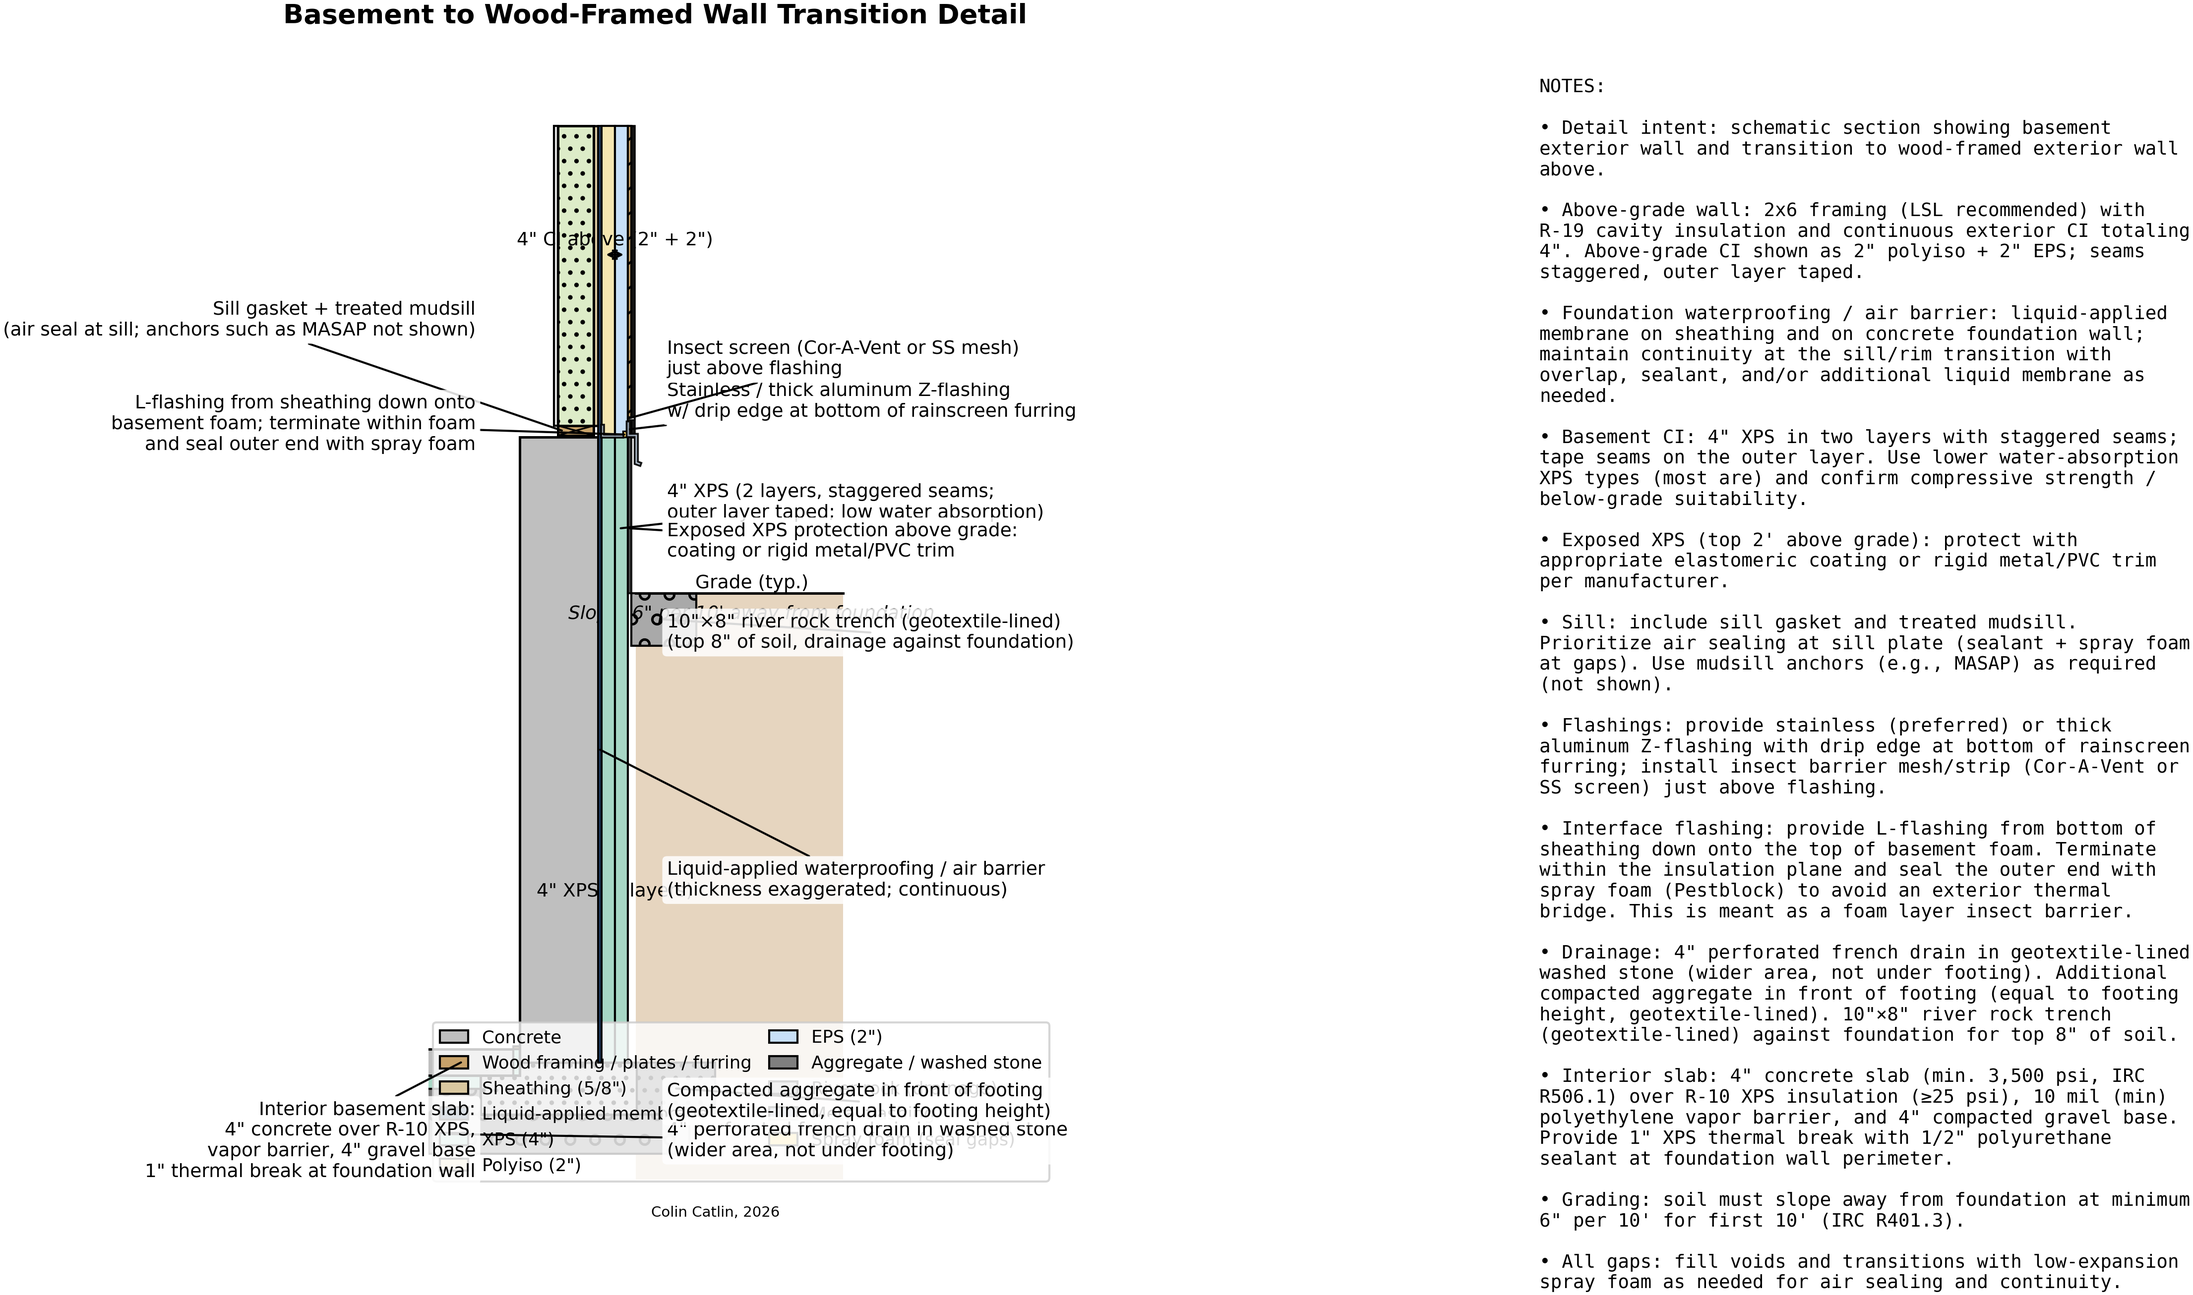
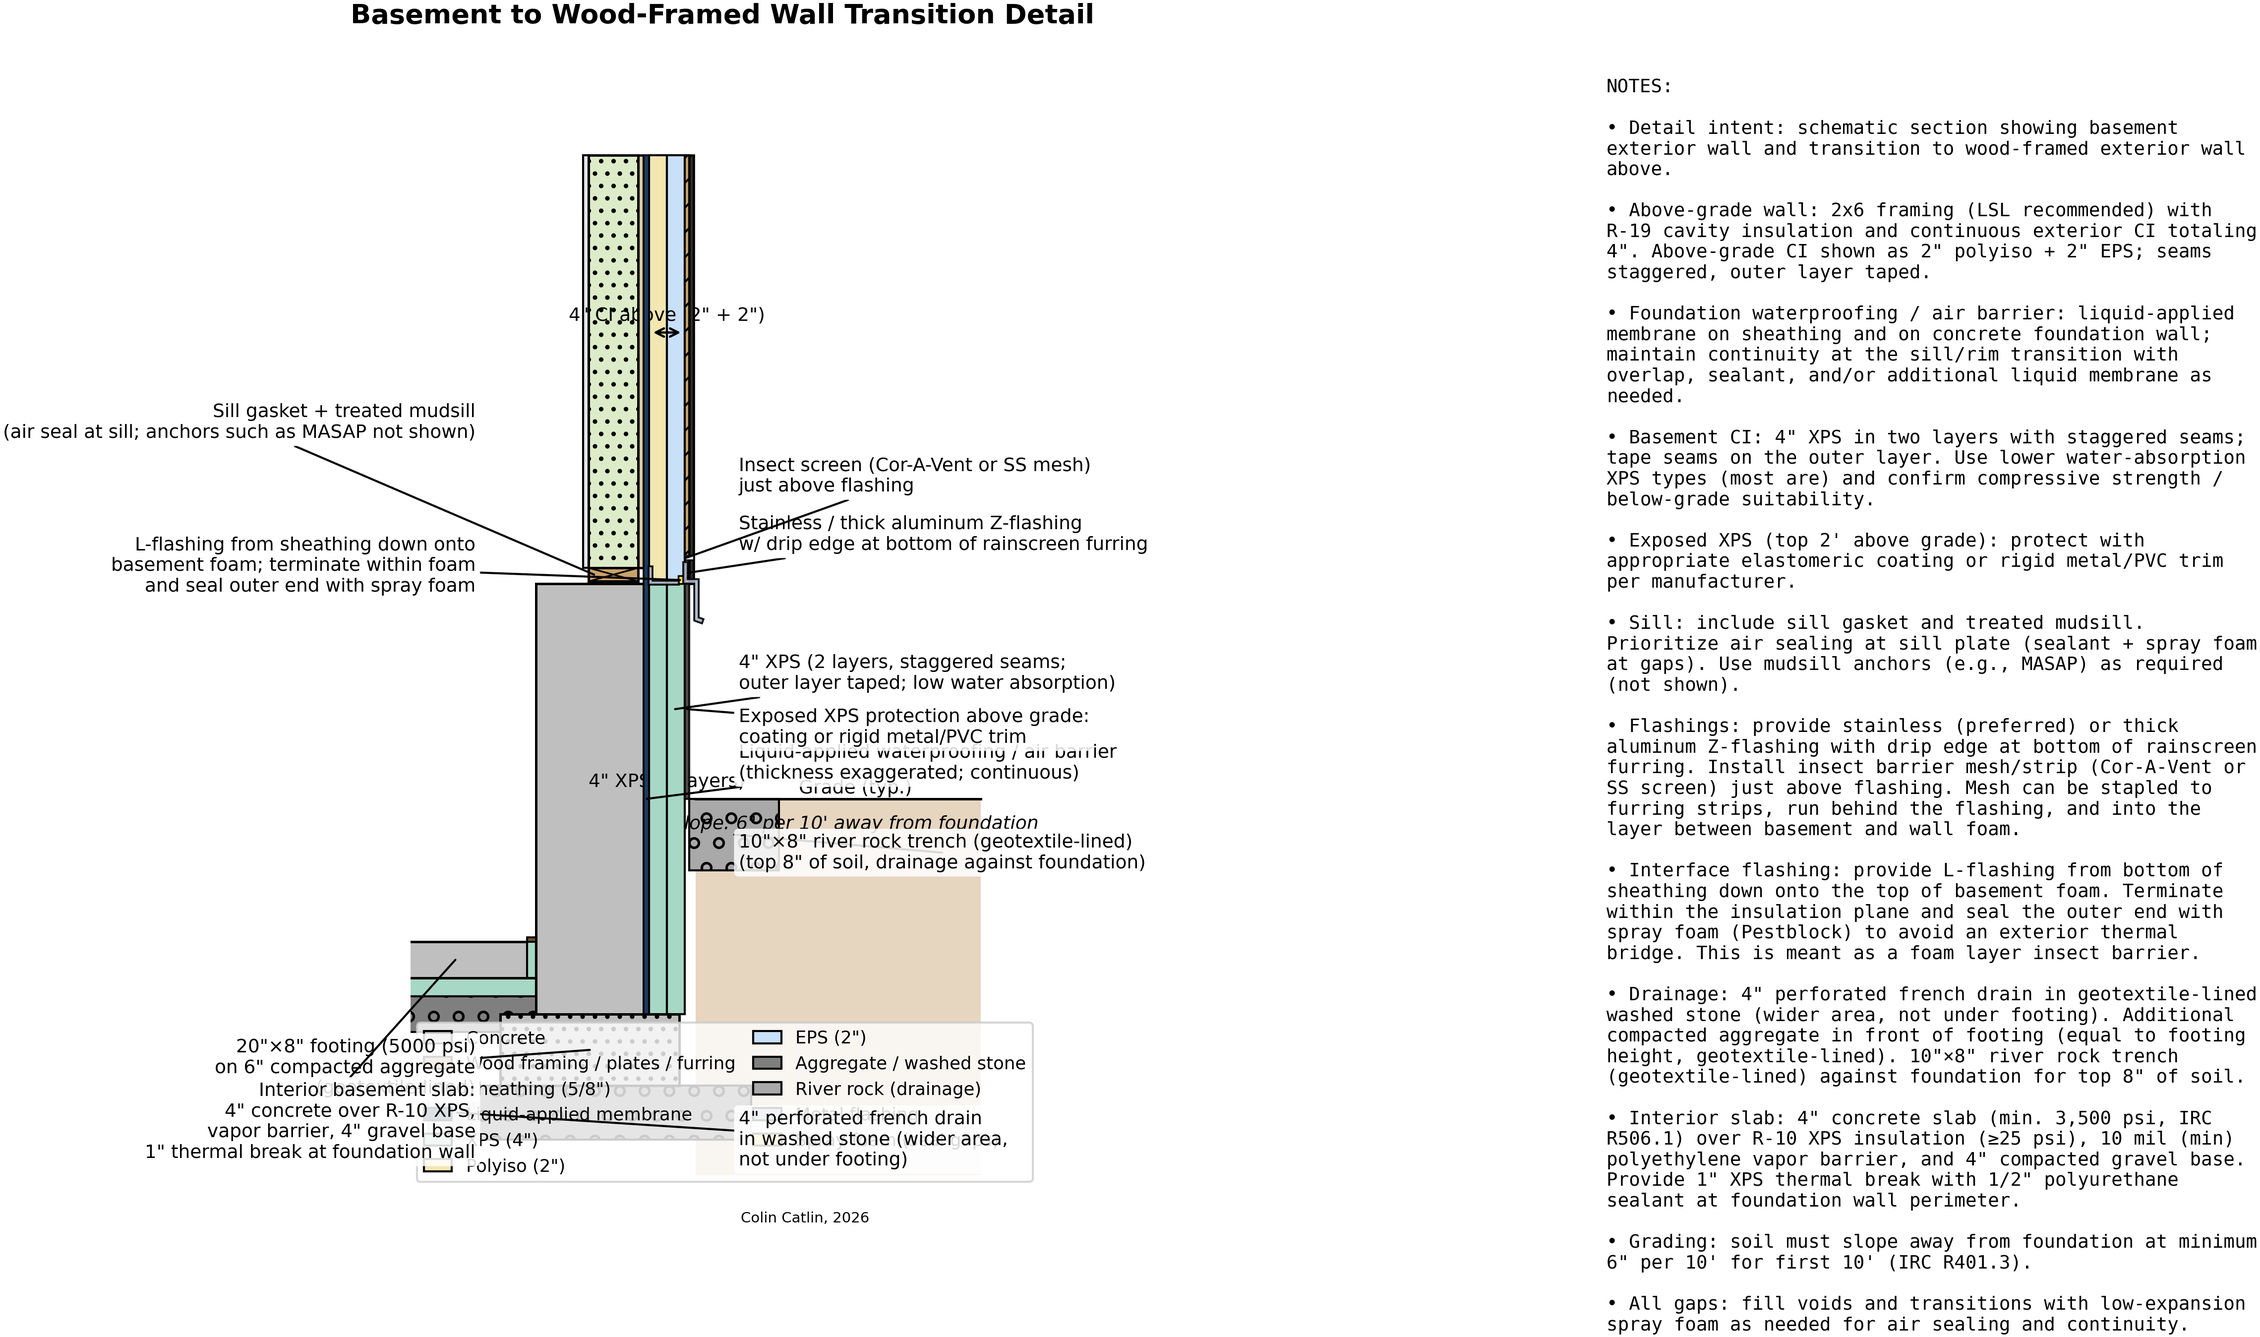
add basement slab to detail

diff --git a/basement_to_framed_wall_detail.py b/basement_to_framed_wall_detail.py
@@ -35,9 +35,9 @@ def main():
     ax_notes = fig.add_subplot(gs[0, 1])
 
     # Units: inches (schematic)
-    grade_y = 0.0
+    grade_y = 12.0  # raised 1' to reduce figure height
     basement_above_grade = 24.0  # top 2' shown above grade
-    basement_wall_height = 96.0  # 8' shown
+    basement_wall_height = 48.0  # 4' shown
 
     y_conc_top = grade_y + basement_above_grade
     y_conc_bot = y_conc_top - basement_wall_height
@@ -139,57 +139,32 @@ def main():
     ax.text(x_clad1 + 18.0, grade_y - 1.8, "Slope: 6\" per 10' away from foundation", fontsize=9, ha="center", va="top", style="italic")
 
     # -----------------------
-    # Foundation + footing (schematic)
+    # Interior slab assembly (basement floor)
     # -----------------------
-    footing_w = 24.0
+    # Slab at basement floor level, extending into basement (negative X direction)
+    basement_floor_y = y_conc_bot + 2.0
+    slab_x0 = x_conc_int - slab_width
+    slab_x1 = x_conc_int
+    
+    # Calculate footing position first (needs to connect to bottom of concrete wall)
+    footing_w = 20.0
     footing_d = 8.0
-    stone_base = 6.0
-    drain_diam = 4.0
-    stone_base_extra = 8.0  # additional width for french drain area
-
-    y_foot_top = y_conc_bot
-    y_foot_bot = y_foot_top - footing_d
-    y_stone_bot = y_foot_bot - stone_base
-
+    stone_base_thk = 6.0
+    
+    # Footing starts at bottom of concrete wall
+    y_foot0 = y_conc_bot
+    y_foot1 = y_foot0 - footing_d
+    y_stone0 = y_foot1
+    y_stone1 = y_stone0 - stone_base_thk
+    
+    # Center footing under the concrete wall
     x_foot0 = (x_conc_int + x_conc_ext) / 2 - footing_w / 2
     x_foot1 = x_foot0 + footing_w
     
-    # Extended aggregate base (wider on exterior side for french drain)
-    x_stone0 = x_foot0 - stone_base_extra
-    x_stone1 = x_foot1 + stone_base_extra
-
-    _rect(ax, x_conc_int, y_conc_bot, conc_wall_thk, y_conc_top - y_conc_bot, fc=COL_CONC, lw=1.2, z=2)
-    _rect(ax, x_foot0, y_foot_bot, footing_w, footing_d, fc=COL_CONC, lw=1.2, hatch=HATCHES.compacted, z=2)
-    _rect(ax, x_stone0, y_stone_bot, x_stone1 - x_stone0, stone_base, fc=COL.aggregate, lw=1.0, hatch=HATCHES.gravel, z=1)
+    # Calculate slab position relative to footing (slab XPS bottom is 2" above footing top, matching sauna)
+    slab_xps_bot = y_foot0 + 2.0
+    basement_floor_y = slab_xps_bot + xps_under_thk + poly_sheet_thk + slab_thk
     
-    # Additional aggregate in front of footing (exterior side, equal to footing height)
-    aggregate_front_height = footing_d  # equal to footing height
-    aggregate_front_width = stone_base_extra + 4.0
-    _rect(
-        ax,
-        x_foot1,
-        y_foot_bot,
-        aggregate_front_width,
-        aggregate_front_height,
-        fc=COL.aggregate,
-        ec="black",
-        lw=1.0,
-        hatch=HATCHES.compacted,
-        z=2,
-    )
-    
-    # French drain (in wider stone area, not under footing)
-    drain_x = x_stone0 + drain_diam * 0.8
-    drain_y = y_stone_bot + stone_base / 2
-    _french_drain(ax, drain_x, drain_y, drain_diam, fc=COL_METAL, z=3)
-
-    # -----------------------
-    # Interior slab assembly (basement floor)
-    # -----------------------
-    # Slab at basement floor level (just above footing), extending into basement (negative X direction)
-    basement_floor_y = y_conc_bot + 2.0  # slightly above footing
-    slab_x0 = x_conc_int - slab_width
-    slab_x1 = x_conc_int
     slab_layers = _slab_assembly(
         ax,
         slab_x0,
@@ -197,7 +172,7 @@ def main():
         basement_floor_y,
         slab_thk=slab_thk,
         xps_thk=xps_under_thk,
-        poly_thk=poly_sheet_thk,
+        vapor_thk=poly_sheet_thk,
         stone_thk=stone_under_slab,
         thermal_break_thk=thermal_break_thk,
         sealant_thk=sealant_thk,
@@ -205,6 +180,22 @@ def main():
         thermal_break_x=x_conc_int - thermal_break_thk,
         show_stone=True,
     )
+    
+    # Single consistent aggregate base (wider than footing for french drain)
+    stone_base_extra = 8.0
+    drain_diam = 4.0
+    x_stone0 = x_foot0 - stone_base_extra
+    x_stone1 = x_foot1 + stone_base_extra
+
+    _rect(ax, x_conc_int, y_conc_bot, conc_wall_thk, y_conc_top - y_conc_bot, fc=COL_CONC, lw=1.2, z=2)
+    _rect(ax, x_foot0, y_foot1, footing_w, footing_d, fc=COL_CONC, lw=1.2, hatch=HATCHES.compacted, z=2)
+    _rect(ax, x_stone0, y_stone1, x_stone1 - x_stone0, stone_base_thk, fc=COL.aggregate, lw=1.0, hatch=HATCHES.gravel, z=1)
+    
+    # French drain (in wider stone area, not under footing)
+    drain_x = x_stone0 + drain_diam * 0.8
+    drain_y = y_stone1 + stone_base_thk / 2
+    _french_drain(ax, drain_x, drain_y, drain_diam, fc=COL_METAL, z=3)
+    _french_drain(ax, drain_x, drain_y, drain_diam, fc=COL_METAL, z=3)
 
     # -----------------------
     # Air/water barrier continuity (liquid membrane) + insulation
@@ -329,16 +320,17 @@ def main():
     _leader(
         ax,
         xy=(drain_x, drain_y),
-        text_xy=(x_clad1 + 5.0, y_foot_bot - 4.0),
-        text='4" perforated french drain in washed stone\n(wider area, not under footing)',
+        text_xy=(x_clad1 + 5.0, y_foot1 - 6.0),
+        text='4" perforated french drain\nin washed stone (wider area,\nnot under footing)',
         ha="left",
     )
     _leader(
         ax,
-        xy=(x_foot1 + aggregate_front_width / 2, y_foot_bot + aggregate_front_height / 2),
-        text_xy=(x_clad1 + 5.0, y_foot_bot + 2.0),
-        text='Compacted aggregate in front of footing\n(geotextile-lined, equal to footing height)',
-        ha="left",
+        xy=((x_foot0 + x_foot1) / 2, (y_foot0 + y_foot1) / 2),
+        text_xy=(x_dry0 - 12.0, y_foot1 + 2.0),
+        text='20"×8" footing (5000 psi)\non 6" compacted aggregate\n(geotextile-lined)',
+        ha="right",
+        va="center",
     )
     _leader(
         ax,
@@ -378,10 +370,10 @@ def main():
     )
 
     ax.set_title("Basement to Wood-Framed Wall Transition Detail", fontsize=13, fontweight="bold", loc="center", pad=12)
-    ax.text(x_conc_int + 30.0, y_stone_bot - 8.0, "Colin Catlin, 2026", ha="center", va="top", fontsize=7)
+    ax.text(x_conc_int + 30.0, y_stone1 - 8.0, "Colin Catlin, 2026", ha="center", va="top", fontsize=7)
 
     ax.set_xlim(x_conc_int - 14.0, x_clad1 + 38.0)
-    ax.set_ylim(y_stone_bot - 6.0, y_wall_top + 12.0)
+    ax.set_ylim(y_stone1 - 6.0, y_wall_top + 12.0)
     ax.set_aspect("equal")
     ax.axis("off")
 
@@ -433,7 +425,7 @@ def main():
         "",
         "• Sill: include sill gasket and treated mudsill. Prioritize air sealing at sill plate (sealant + spray foam at gaps). Use mudsill anchors (e.g., MASAP) as required (not shown).",
         "",
-        "• Flashings: provide stainless (preferred) or thick aluminum Z-flashing with drip edge at bottom of rainscreen furring; install insect barrier mesh/strip (Cor-A-Vent or SS screen) just above flashing.",
+        "• Flashings: provide stainless (preferred) or thick aluminum Z-flashing with drip edge at bottom of rainscreen furring. Install insect barrier mesh/strip (Cor-A-Vent or SS screen) just above flashing. Mesh can be stapled to furring strips, run behind the flashing, and into the layer between basement and wall foam.",
         "",
         "• Interface flashing: provide L-flashing from bottom of sheathing down onto the top of basement foam. Terminate within the insulation plane and seal the outer end with spray foam (Pestblock) to avoid an exterior thermal bridge. This is meant as a foam layer insect barrier.",
         "",

diff --git a/detail_utils.py b/detail_utils.py
@@ -333,7 +333,7 @@ def _french_drain(ax, x, y, diameter, *, fc=COLORS.metal, ec="black", lw=1.1, z=
     ax.add_patch(Circle((x, y), radius=diameter / 2 - 0.25, facecolor=fc, edgecolor="none", alpha=fill_alpha, zorder=z + 1))
 
 
-def _slab_assembly(ax, x0, x1, y_top, *, slab_thk=4.0, xps_thk=2.0, poly_thk=0.05, stone_thk=4.0, 
+def _slab_assembly(ax, x0, x1, y_top, *, slab_thk=4.0, xps_thk=2.0, vapor_thk=0.05, stone_thk=4.0, 
                    thermal_break_thk=1.0, sealant_thk=0.5, thermal_break_side='left',
                    thermal_break_x=None, show_stone=True):
     """
@@ -351,8 +351,8 @@ def _slab_assembly(ax, x0, x1, y_top, *, slab_thk=4.0, xps_thk=2.0, poly_thk=0.0
         Thickness of concrete slab (default 4.0")
     xps_thk : float
         Thickness of XPS insulation under slab (default 2.0")
-    poly_thk : float
-        Thickness of poly vapor barrier (schematic, default 0.05")
+    vapor_thk : float
+        Thickness of vapor barrier (schematic, default 0.05")
     stone_thk : float
         Thickness of gravel base (default 4.0")
     thermal_break_thk : float
@@ -368,13 +368,13 @@ def _slab_assembly(ax, x0, x1, y_top, *, slab_thk=4.0, xps_thk=2.0, poly_thk=0.0
     
     Returns:
     --------
-    dict with layer y-coordinates: 'slab_bot', 'poly_bot', 'xps_bot', 'stone_bot'
+    dict with layer y-coordinates: 'slab_bot', 'vapor_bot', 'xps_bot', 'stone_bot'
     """
     COL = COLORS
     
     y_slab_bot = y_top - slab_thk
-    y_poly_bot = y_slab_bot - poly_thk
-    y_xps_bot = y_poly_bot - xps_thk
+    y_vapor_bot = y_slab_bot - vapor_thk
+    y_xps_bot = y_vapor_bot - xps_thk
     y_stone_bot = y_xps_bot - stone_thk
     
     # Draw thermal break(s) if specified
@@ -397,7 +397,7 @@ def _slab_assembly(ax, x0, x1, y_top, *, slab_thk=4.0, xps_thk=2.0, poly_thk=0.0
     
     # Draw slab layers
     _rect(ax, x0, y_slab_bot, x1 - x0, slab_thk, fc=COL.concrete, lw=1.2, z=2)
-    _rect(ax, x0, y_poly_bot, x1 - x0, poly_thk, fc=COL.membrane, ec="black", lw=0.6, z=1)
+    _rect(ax, x0, y_vapor_bot, x1 - x0, vapor_thk, fc=COL.membrane, ec="black", lw=0.6, z=1)
     _rect(ax, x0, y_xps_bot, x1 - x0, xps_thk, fc=COL.xps, lw=1.0, z=1)
     
     if show_stone:
@@ -405,7 +405,7 @@ def _slab_assembly(ax, x0, x1, y_top, *, slab_thk=4.0, xps_thk=2.0, poly_thk=0.0
     
     return {
         'slab_bot': y_slab_bot,
-        'poly_bot': y_poly_bot,
+        'vapor_bot': y_vapor_bot,
         'xps_bot': y_xps_bot,
         'stone_bot': y_stone_bot
     }

diff --git a/house_description.md b/house_description.md
@@ -1,0 +1,47 @@
+# Project Design Goals and Guidelines
+* Design  around IFC files and interact with them mostly from python in Visual Studio Code. IFC should be used so that this could be loaded into other major programs easily, such as Revit or ArchCAD.
+* Use ifcopenshell to process the IFC files, ifctester to help validate the structure, and Bonsai BIM for 3d visualization (some users might use Bonsai to modify IFC details, but primarily it is intended in the stack just for visualization). For 2d details (wall and floorplan), plan to use matplotlib where possible.
+* Uses adjustText or textalloc for matplotlib labels to improve layout.
+* One constraint is I want this to be LLM coding agent friendly, for example files should not be too large, and to have built in tests that can quickly check changes without needing to load the full structure model into context (ifctester and regular unittests). 
+* Format this repository as a reusable library so others can use it for their own projects. Note that this described project will be included in the pypi uploaded version, as the default starting project for others to modify as desired.
+* Designed with North American imperial building standards (such as 2x4s and 8' by 4' panels commmonly) but ideally would be usable in metric as well.
+* One nice to have feature of lower importance would be a full BOM export of materials (for example, how many cubic yards of concrete, and how many 104-5/8" studs).
+* One potential difficulty is that windows and doors will be added and moved around later, so we expect to have structural headers and so on modified onto existing wall definitions.
+* May have sub-variations of assemblies which need to be supported, without a full duplication, for minor changes to assemblies.
+* IFC groups defined for each of the main subcontractors: concrete, framing, hvac, and plumbing. Drywall and cladding both also as separate groups so they can easily been hidden to show interior details. Finally a furnishings group for any added furniture and furnishings.
+* Have a way to properly organize the "notes" that go into the floorplans and assembly details, in a way those can be viewed as markdown and loaded into the detail figures that are created as well.
+* An important overall goal is that details can be updated in as few locations as possible (for example, I might decide to switch floor joists from 11 7/8" to 14" depth, and I only need to make this change in one location for a floor, and all details that show this update automatically from this reference).
+
+# High-Level Description of Design
+Four structures
+1. The house
+2. The attached porch (technically a separate structure as it is freestanding, separate foundation) and sunken garden (retaining walls attached to porch)
+3. the detached garage
+4. a breezeway linking the house and the garage
+
+The house:
+36' by 36' measured at the sheathing, designed so 8' by 4' plywood sheathing can be used without cuts.
+It consists of 4 levels called the basement, the main floor (also called first floor), the second floor, and the attic level floor.
+The basement is poured concrete, 12" thick walls (might be changed to 10" later) with 9' height (clear height above slab and below floor) with 9" thick concrete slab for the ceiling.
+Basement floor is 3.5" thick concrete over 6 mil or greater poly vapor barrier, over 4" of rigid XPS foam, over 6" of aggregate.
+Basement floor has one recessed area for a curbless shower.
+Beneath basement are footing drains for drainage and radon that drain to a sump pump outside the basement.
+Basement is subdivided into a grid of four smaller squares, with a cross of middle point, load bearing concrete walls at 18' oc on each axis.
+
+The main structure of the upper floors is two loading bearing outer walls with a center midline load bearing wall. Joists (11 7/8" thickness) of about 18' span between the load bearing exterior side walls and the center midline wall (joists run east to west). These load bearing walls run north to south. The east to west running exterior walls bear only the load of the end floor joist and bear only a small fraction of house load compared to the north to south running walls.
+
+For the floor between the first and second story, trimjoists are used. For the upper levels above that, standard i-joists are used.
+
+The first floor has 2x6 LSL framing for all three load bearing walls. The center midline load bearing wall remains 2x6s for the upper levels but switches to standard dimensional lumber after the first floor. The side load bearing walls switch to 2x4 LSL for the second story, and 2x4 dimensional for the attic level studs. The east to west exterior walls (running east to west) are 2x4 LSL on the first floor, and 2x4 dimension for the upper floors.
+
+Most insulation is exterior insulation, refer to the attached details for further information.
+
+Almost all of the framing is 16" oc spacing, unless noted otherwise. Standing seam siding and furring strips of siding and roofing are also at 16" oc.
+
+The attic level has 5' high end walls (interior height) that run north to south, and a 11' (interior height) giving it a centerline gable peak. It is framed almost exactly the same as the floors below, using 11 7/8" I-joists. The centerline load bearing wall supports the structural ridge beam, which mounts i-joists on LSSR sloped hangers to the sides. The i-joists (running east to west) then bear on the top plates of the side load bearing walls (running north to south). The attic level has a small finished area, but is mostly unfinished, with the option to finish later.
+
+The stair section is also important for the full house structure. For connecting the basement, first, and second floors, a set of U-shaped stairs is present. These occupy a 2d space of 7' (east to west length) and 9' 8" (north to south length) and consist of 16 risers with a standard 10" (plus 1" nosing) tread. These stairs are located on the northern side of the house immediately to the west of the centerline load bearing wall.
+
+As a result of the opening for the stairs, a set of smaller load bearing walls is present. In the basement, there is a poured concrete wall (8" thick) immediately to the west of the opening for the stairs, and on the floor immediately above this is a load bearing wood stud wall, bearing shorter floor joists for the second floor (shorter due to the stair opening not being spanned).
+
+The garage is 24' by 24' (again, measured at sheathing, for minimal sheathing cuts when using 8' by 4' sheathing). See attached garage detail for full design parameters.
